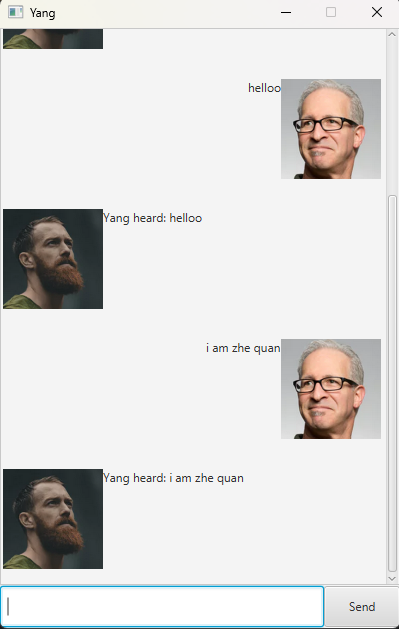
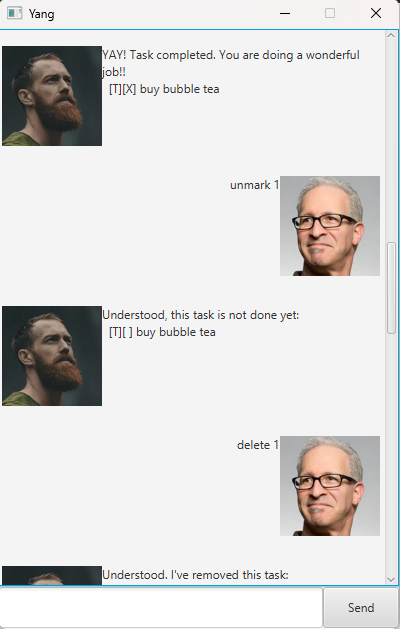
Fix code issues and update Ui.png

diff --git a/src/main/java/yang/Yang.java b/src/main/java/yang/Yang.java
@@ -17,25 +17,6 @@ public class Yang {
     private final Ui ui = new Ui();
     private TaskList tasks = new TaskList();
 
-    /** Starts the interactive loop for the Yang bot. */
-    public void run() {
-        loadTasksIfAny();
-        ui.greet();
-
-        while (true) {
-            String input = ui.readCommand();
-            if (isExit(input)) {
-                ui.bye();
-                break;
-            }
-            try {
-                process(input);
-            } catch (IllegalArgumentException e) {
-                ui.show(e.getMessage());
-            }
-        }
-    }
-
     private void loadTasksIfAny() {
         try {
             tasks = new TaskList(storage.load());
@@ -66,12 +47,73 @@ public class Yang {
         }
     }
 
+    /**
+     * Returns Yang's response to the given user input for the GUI.
+     *
+     * @param input the user command
+     * @return the response message to display
+     */
     public String getResponse(String input) {
-        return "Yang heard: " + input;
+        if (input == null || input.isBlank()) {
+            return "";
+        }
+        if (COMMAND_EXIT.equalsIgnoreCase(input.trim())) {
+            return "Bye bye! Hope to see you again soon!";
+        }
+
+        try {
+            var res = Parser.apply(input, tasks);
+            switch (res.type) {
+            case ADDED, DELETED, MARKED, UNMARKED -> storage.save(tasks.asList());
+            default -> { /* no-op */ }
+            }
+            return render(res);
+        } catch (YangException e) {
+            return e.getMessage();
+        } catch (Exception e) {
+            return "☹ OOPS!!! " + e.getMessage();
+        }
     }
 
-    /** Program entry point. */
-    public static void main(String[] args) {
-        new Yang().run();
+    private String render(yang.parser.CommandResult r) {
+        switch (r.type) {
+        case LIST: {
+            if (tasks.size() == 0) {
+                return "No tasks at the moment!";
+            }
+            StringBuilder sb = new StringBuilder("Here are the tasks in your list:\n");
+            for (int i = 0; i < tasks.size(); i++) {
+                sb.append(i + 1).append(". ").append(tasks.get(i)).append('\n');
+            }
+            return sb.toString().trim();
+        }
+        case ADDED:
+            return "Perfect! I've added this task:\n  " + r.task
+                    + "\nNow you have " + tasks.size() + " tasks in the list.";
+        case DELETED:
+            return "Understood. I've removed this task:\n  " + r.task
+                    + "\nNow you have " + tasks.size() + " tasks in the list.";
+        case MARKED:
+            return "YAY! Task completed. You are doing a wonderful job!!\n  " + r.task;
+        case UNMARKED:
+            return "Understood, this task is not done yet:\n  " + r.task;
+        case FOUND: {
+            String kw = (r.keyword == null) ? "" : r.keyword.trim().toLowerCase();
+            StringBuilder sb = new StringBuilder("Here are the matching tasks in your list:\n");
+            int n = 0;
+            for (int i = 0; i < tasks.size(); i++) {
+                var t = tasks.get(i);
+                if (t.toString().toLowerCase().contains(kw)) {
+                    sb.append(++n).append(". ").append(t).append('\n');
+                }
+            }
+            if (n == 0) {
+                sb.append("(no matches)");
+            }
+            return sb.toString().trim();
+        }
+        default:
+            return "I am sorry, not sure what that means.";
+        }
     }
 }

diff --git a/src/main/java/yang/ui/Ui.java b/src/main/java/yang/ui/Ui.java
@@ -103,9 +103,5 @@ public class Ui {
     public void show(String s) {
         System.out.println(s);
     }
-
-    public void bye() {
-        System.out.println("Bye bye! Hope to see you again soon!");
-    }
 }
 

diff --git a/docs/README.md b/docs/README.md
@@ -12,12 +12,12 @@ This guide explains how to use Yang and its key features.
 
 ### 1. Add a Todo
 Adds a simple task without date/time.  
-**Usage:** todo read book
+**Usage:** todo buy bubble tea
 
 ```
 expected output:
 Perfect! I've added this task:
-[T][ ] read book
+[T][ ] buy bubble tea
 Now you have 1 tasks in the list.
 ```
 
@@ -28,14 +28,13 @@ Adds a task with a deadline date.
 ```
 expected output:
 Perfect! I've added this task:
-[D][ ] return book (by: Dec 2 2019)
+[D][ ] return book (by: Sep 20 2025)
 Now you have 2 tasks in the list.
 ```
 
 ### 3. Add an Event
 Adds a task that occurs on a specific date.  
 **Usage:** event project meeting /at 2025-12-05
-
 ```
 expected output:
 Perfect! I've added this task:
@@ -50,8 +49,8 @@ Shows all tasks in your list.
 ```
 expected output:
 Here are the tasks in your list:
-1. [T][ ] read book
-2. [D][ ] return book (by: Dec 2 2019)
+1. [T][ ] buy bubble tea
+2. [D][ ] return book (by: Sep 20 2025)
 3. [E][ ] project meeting (at: Dec 5 2025)
 ```
 
@@ -61,13 +60,13 @@ Marks a task as done or not done.
 unmark 1
 ```
 expected output: 
-Okay! I've marked this task as done:
-  [T][X] read book
+YAY! Task completed. You are doing a wonderful job!!
+  [T][X] buy bubble tea
 ```
 ```
 expected output: 
-Will do, I've marked this task as not done yet:
-  [T][ ] read book
+Understood, this task is not done yet:
+  [T][ ] buy bubble tea
 ```
 
 ### 6. Delete a Task
@@ -76,7 +75,7 @@ Removes a task from the list.
 ```
 expected output: 
 Understood. I've removed this task:
-  [T][ ] read book
+  [T][ ] buy bubble tea
 Now you have 2 tasks in the list.
 ```
 
@@ -85,9 +84,8 @@ Search for tasks by keyword.
 **Usage:** find book
 ```
 expected output: 
-I have listed the matching tasks:
-2. [D][ ] return book (by: Dec 2 2019)
-
+Here are the matching tasks in your list:
+1. [D][ ] return book (by: Sep 20 2025)
 ```
 
 ### 8. Exit
@@ -96,10 +94,5 @@ Exit chatbot
 ```
 expected output: 
 Bye bye! Hope to see you again soon!
-
-BUILD SUCCESSFUL in 3m 6s
-3 actionable tasks: 2 executed, 1 up-to-date
-3:12:52 PM: Execution finished ':yang.Yang.main()'.
-
 ```
 
